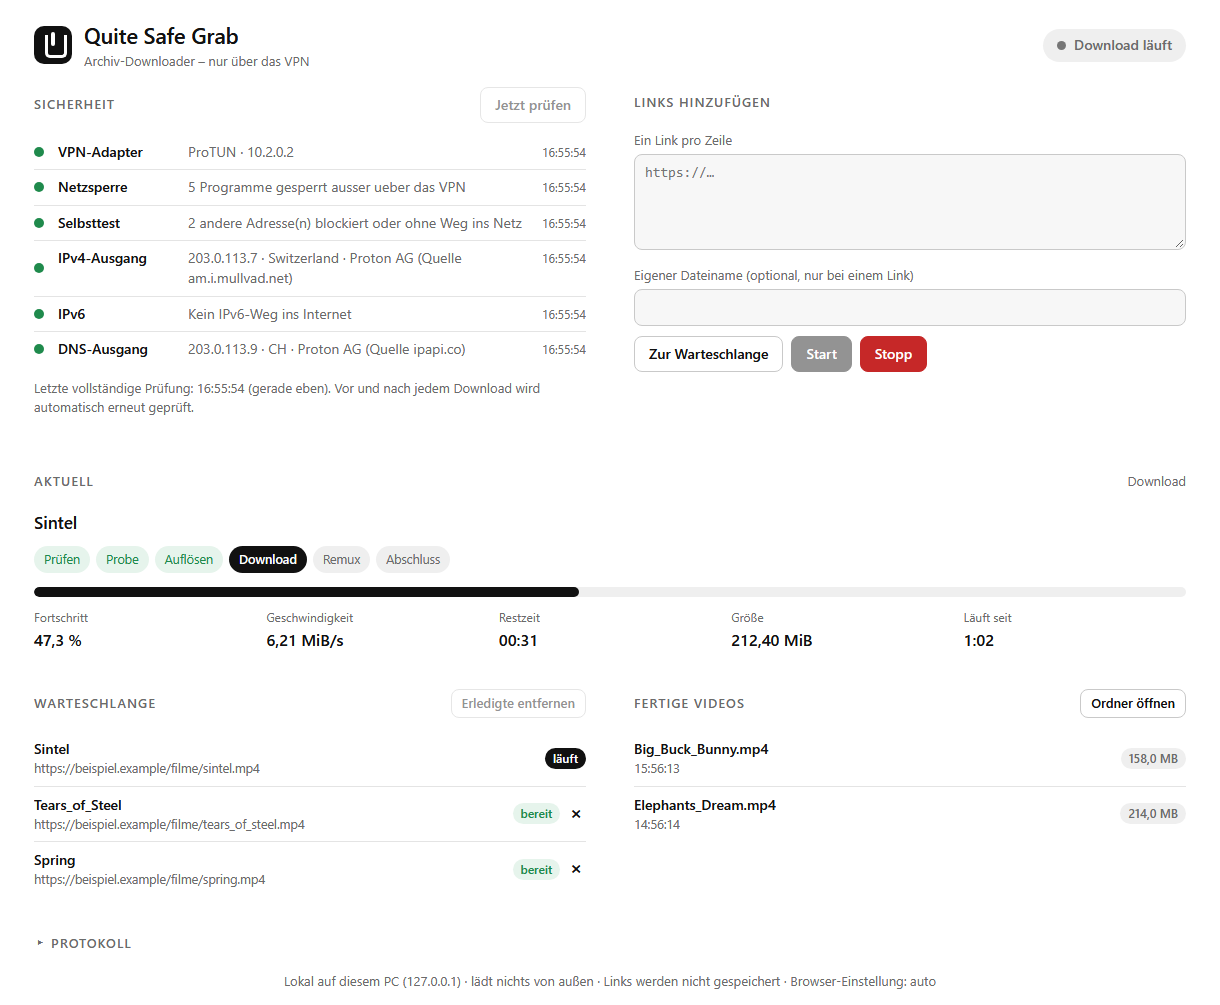
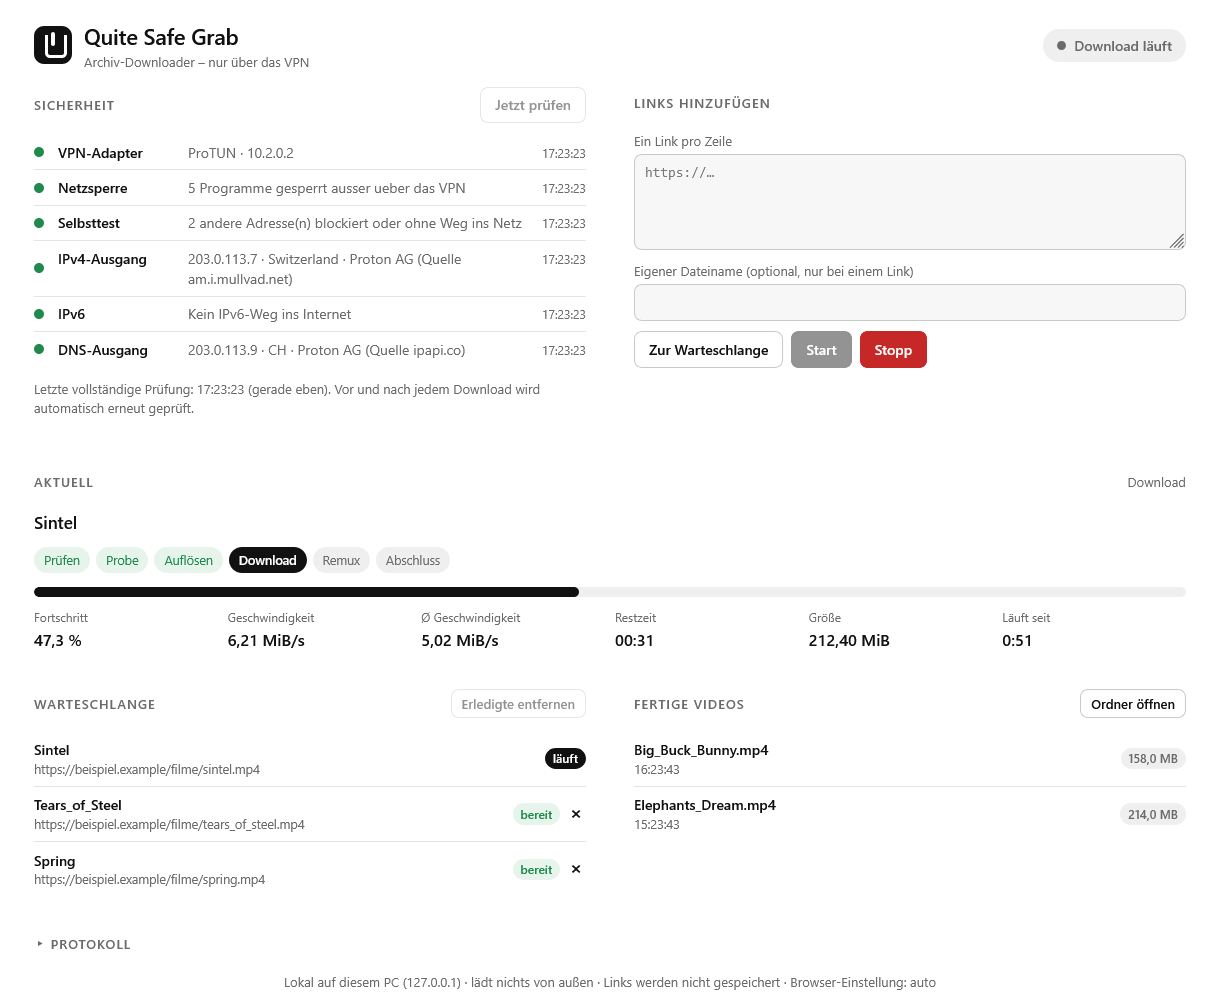
Oberflaeche: klarere Anzeige vor und waehrend des Downloads
- Knopf heisst immer nur Start (waehrend der Titelsuche startet es danach)
- keine Prozente waehrend Titelsuche und Pruefungen
- Hinweis mit Wartesymbol, solange noch nichts geladen wird
- KiB/s ohne Nachkommastellen, neu: Durchschnittsgeschwindigkeit des Videos
- README-Bilder aktualisiert

diff --git a/ui/app.js b/ui/app.js
@@ -79,8 +79,41 @@ function bytes(n) {
 }
 
 function unit(s) {
-  // yt-dlp: "2.54MiB/s" -> "2,54 MiB/s"
+  // yt-dlp: "212.40MiB" -> "212,40 MiB"
   return s ? s.replace(/^([\d.]+)/, (m) => m.replace('.', ',') + ' ') : '–';
+}
+
+const UNITS = { B: 1, KB: 1e3, MB: 1e6, GB: 1e9, KIB: 1024, MIB: 1024 ** 2, GIB: 1024 ** 3, TIB: 1024 ** 4 };
+function parseSize(s) {
+  // "6.21MiB/s" oder "212.40MiB" -> Bytes; unbekannt -> null
+  const m = /^([\d.]+)\s*([KMGT]?i?B)/i.exec(s || '');
+  if (!m) return null;
+  const f = UNITS[m[2].toUpperCase()];
+  return f ? parseFloat(m[1]) * f : null;
+}
+
+function speedText(bytesPerSec) {
+  // KiB/s ohne Nachkommastellen, ab 1 MiB/s mit zwei.
+  if (bytesPerSec === null || !isFinite(bytesPerSec)) return '–';
+  if (bytesPerSec >= 1024 ** 2) return (bytesPerSec / 1024 ** 2).toFixed(2).replace('.', ',') + ' MiB/s';
+  if (bytesPerSec >= 1024) return Math.round(bytesPerSec / 1024) + ' KiB/s';
+  return Math.round(bytesPerSec) + ' B/s';
+}
+
+// Was gerade passiert, solange noch nichts heruntergeladen wird.
+const HINTS = {
+  checks: 'Sicherheitsprüfung läuft (VPN, Firewall, IP, DNS) – der Download beginnt gleich.',
+  probe: 'Kurzer Probe-Download zur Kontrolle der Verbindung – der Download beginnt gleich.',
+  resolve: 'Video wird gesucht – der Download beginnt gleich.',
+  download: 'Verbindung zum Video wird aufgebaut …',
+  remux: 'Video wird fertiggestellt (ohne Qualitätsverlust) …',
+  verify: 'Abschlussprüfung der Verbindung …',
+};
+function hintText(st, cur, hasProgress) {
+  if (st.mode === 'check') return 'Sicherheitsprüfung läuft (VPN, Firewall, IP, DNS) …';
+  if (st.mode === 'preview') return 'Titel werden gesucht – vorher und zwischendurch wird die Verbindung geprüft. Noch kein Download.';
+  if (cur.phase === 'download' && hasProgress) return '';
+  return HINTS[cur.phase] || '';
 }
 
 function duration(sec) {
@@ -145,8 +178,10 @@ function renderNow(st) {
     li.hidden = st.mode === 'check' && i > 0;
   }
   const bar = $('bar');
-  const pct = typeof cur.percent === 'number' ? cur.percent : null;
-  if (pct !== null && (cur.phase === 'download' || st.mode === 'preview')) {
+  // Prozent nur beim echten Download (nicht bei Titelsuche oder Prüfungen).
+  const downloading = st.mode === 'download' && cur.phase === 'download';
+  const pct = downloading && typeof cur.percent === 'number' ? cur.percent : null;
+  if (pct !== null) {
     bar.classList.remove('indeterminate');
     $('bar-fill').style.width = pct.toFixed(1) + '%';
     bar.setAttribute('aria-valuenow', pct.toFixed(0));
@@ -155,9 +190,16 @@ function renderNow(st) {
     $('bar-fill').style.width = '';
     bar.removeAttribute('aria-valuenow');
   }
-  $('st-pct').textContent = pct !== null && (cur.phase === 'download' || st.mode === 'preview')
-    ? pct.toFixed(st.mode === 'preview' ? 0 : 1).replace('.', ',') + ' %' : '–';
-  $('st-speed').textContent = cur.phase === 'download' ? unit(cur.speed) : '–';
+  const hint = hintText(st, cur, pct !== null);
+  $('now-hint').hidden = !hint;
+  $('now-hint-text').textContent = hint;
+  $('st-pct').textContent = pct !== null ? pct.toFixed(1).replace('.', ',') + ' %' : '–';
+  $('st-speed').textContent = downloading ? speedText(parseSize(cur.speed)) : '–';
+  // Durchschnitt dieses Videos: geladene Bytes / Zeit seit Beginn des Downloads.
+  const totalBytes = parseSize(cur.total);
+  const since = cur.download_started ? serverNow() - cur.download_started : 0;
+  $('st-avg').textContent = downloading && pct !== null && totalBytes && since > 1
+    ? speedText(totalBytes * pct / 100 / since) : '–';
   $('st-eta').textContent = cur.phase === 'download' && cur.eta ? cur.eta : '–';
   $('st-total').textContent = cur.total ? unit(cur.total) : '–';
   $('st-elapsed').textContent = cur.started ? duration(serverNow() - cur.started) : '–';
@@ -230,7 +272,7 @@ function renderControls(st) {
   const waiting = st.queue.some((x) => x.status === 'waiting');
   const previewing = st.mode === 'preview';
   $('btn-start').disabled = !waiting || (busy && !previewing) || (previewing && st.start_pending);
-  $('btn-start').textContent = previewing ? (st.start_pending ? 'Startet nach Titelsuche' : 'Start nach Titelsuche') : 'Start';
+  $('btn-start').textContent = 'Start';   // waehrend der Titelsuche: Downloads starten automatisch danach
   $('btn-check').disabled = busy;
   $('btn-stop').hidden = !busy;
   $('btn-clear').disabled = !st.queue.some((x) => ['done', 'failed', 'stopped'].includes(x.status));

diff --git a/ui/app.css b/ui/app.css
@@ -152,7 +152,14 @@ textarea:focus, input:focus, .btn:focus-visible { outline: 2px solid var(--accen
 .bar > div { height: 100%; width: 0; background: var(--accent); border-radius: 999px; transition: width .4s ease; }
 .bar.indeterminate > div { width: 30%; animation: slide 1.4s ease-in-out infinite; }
 @keyframes slide { 0% { margin-left: -30%; } 100% { margin-left: 100%; } }
-.stats { display: grid; grid-template-columns: repeat(5, minmax(0, 1fr)); gap: 10px; margin: 0; }
+.stats { display: grid; grid-template-columns: repeat(6, minmax(0, 1fr)); gap: 10px; margin: 0; }
+.now-hint { display: flex; align-items: center; gap: 8px; margin: -4px 0 12px; font-size: 13.5px; color: var(--muted); }
+.now-hint[hidden] { display: none; }
+.hint-spin {
+  width: 12px; height: 12px; border-radius: 50%; flex: none;
+  border: 2px solid var(--line); border-top-color: var(--text); animation: spin .9s linear infinite;
+}
+@keyframes spin { to { transform: rotate(360deg); } }
 .stats div { min-width: 0; }
 .stats dt { font-size: 12px; color: var(--muted); }
 .stats dd { margin: 2px 0 0; font-size: 16px; font-weight: 600; font-variant-numeric: tabular-nums; }

diff --git a/ui/index.html b/ui/index.html
@@ -64,6 +64,7 @@
     <div id="now-empty" class="empty">Kein laufender Vorgang.</div>
     <div id="now" hidden>
       <div class="now-title" id="now-title">–</div>
+      <p class="now-hint" id="now-hint" hidden><span class="hint-spin" aria-hidden="true"></span><span id="now-hint-text"></span></p>
       <ol class="steps" id="steps">
         <li data-phase="checks">Prüfen</li>
         <li data-phase="probe">Probe</li>
@@ -76,6 +77,7 @@
       <dl class="stats">
         <div><dt>Fortschritt</dt><dd id="st-pct">–</dd></div>
         <div><dt>Geschwindigkeit</dt><dd id="st-speed">–</dd></div>
+        <div><dt>Ø Geschwindigkeit</dt><dd id="st-avg">–</dd></div>
         <div><dt>Restzeit</dt><dd id="st-eta">–</dd></div>
         <div><dt>Größe</dt><dd id="st-total">–</dd></div>
         <div><dt>Läuft seit</dt><dd id="st-elapsed">–</dd></div>

diff --git a/ui.py b/ui.py
@@ -145,6 +145,8 @@ class State:
             cur['phase'] = ev.get('phase')
             if ev.get('phase') in ('resolve', 'download', 'remux', 'verify'):
                 cur.update(percent=None, speed=None, eta=None, total=None)
+            if ev.get('phase') == 'download':
+                cur['download_started'] = now()   # fuer die Durchschnittsgeschwindigkeit dieses Videos
         elif kind == 'progress' and cur is not None:
             if ev.get('phase') == 'download':
                 cur.update(percent=ev.get('percent'), speed=ev.get('speed'), eta=ev.get('eta'), total=ev.get('total'))
